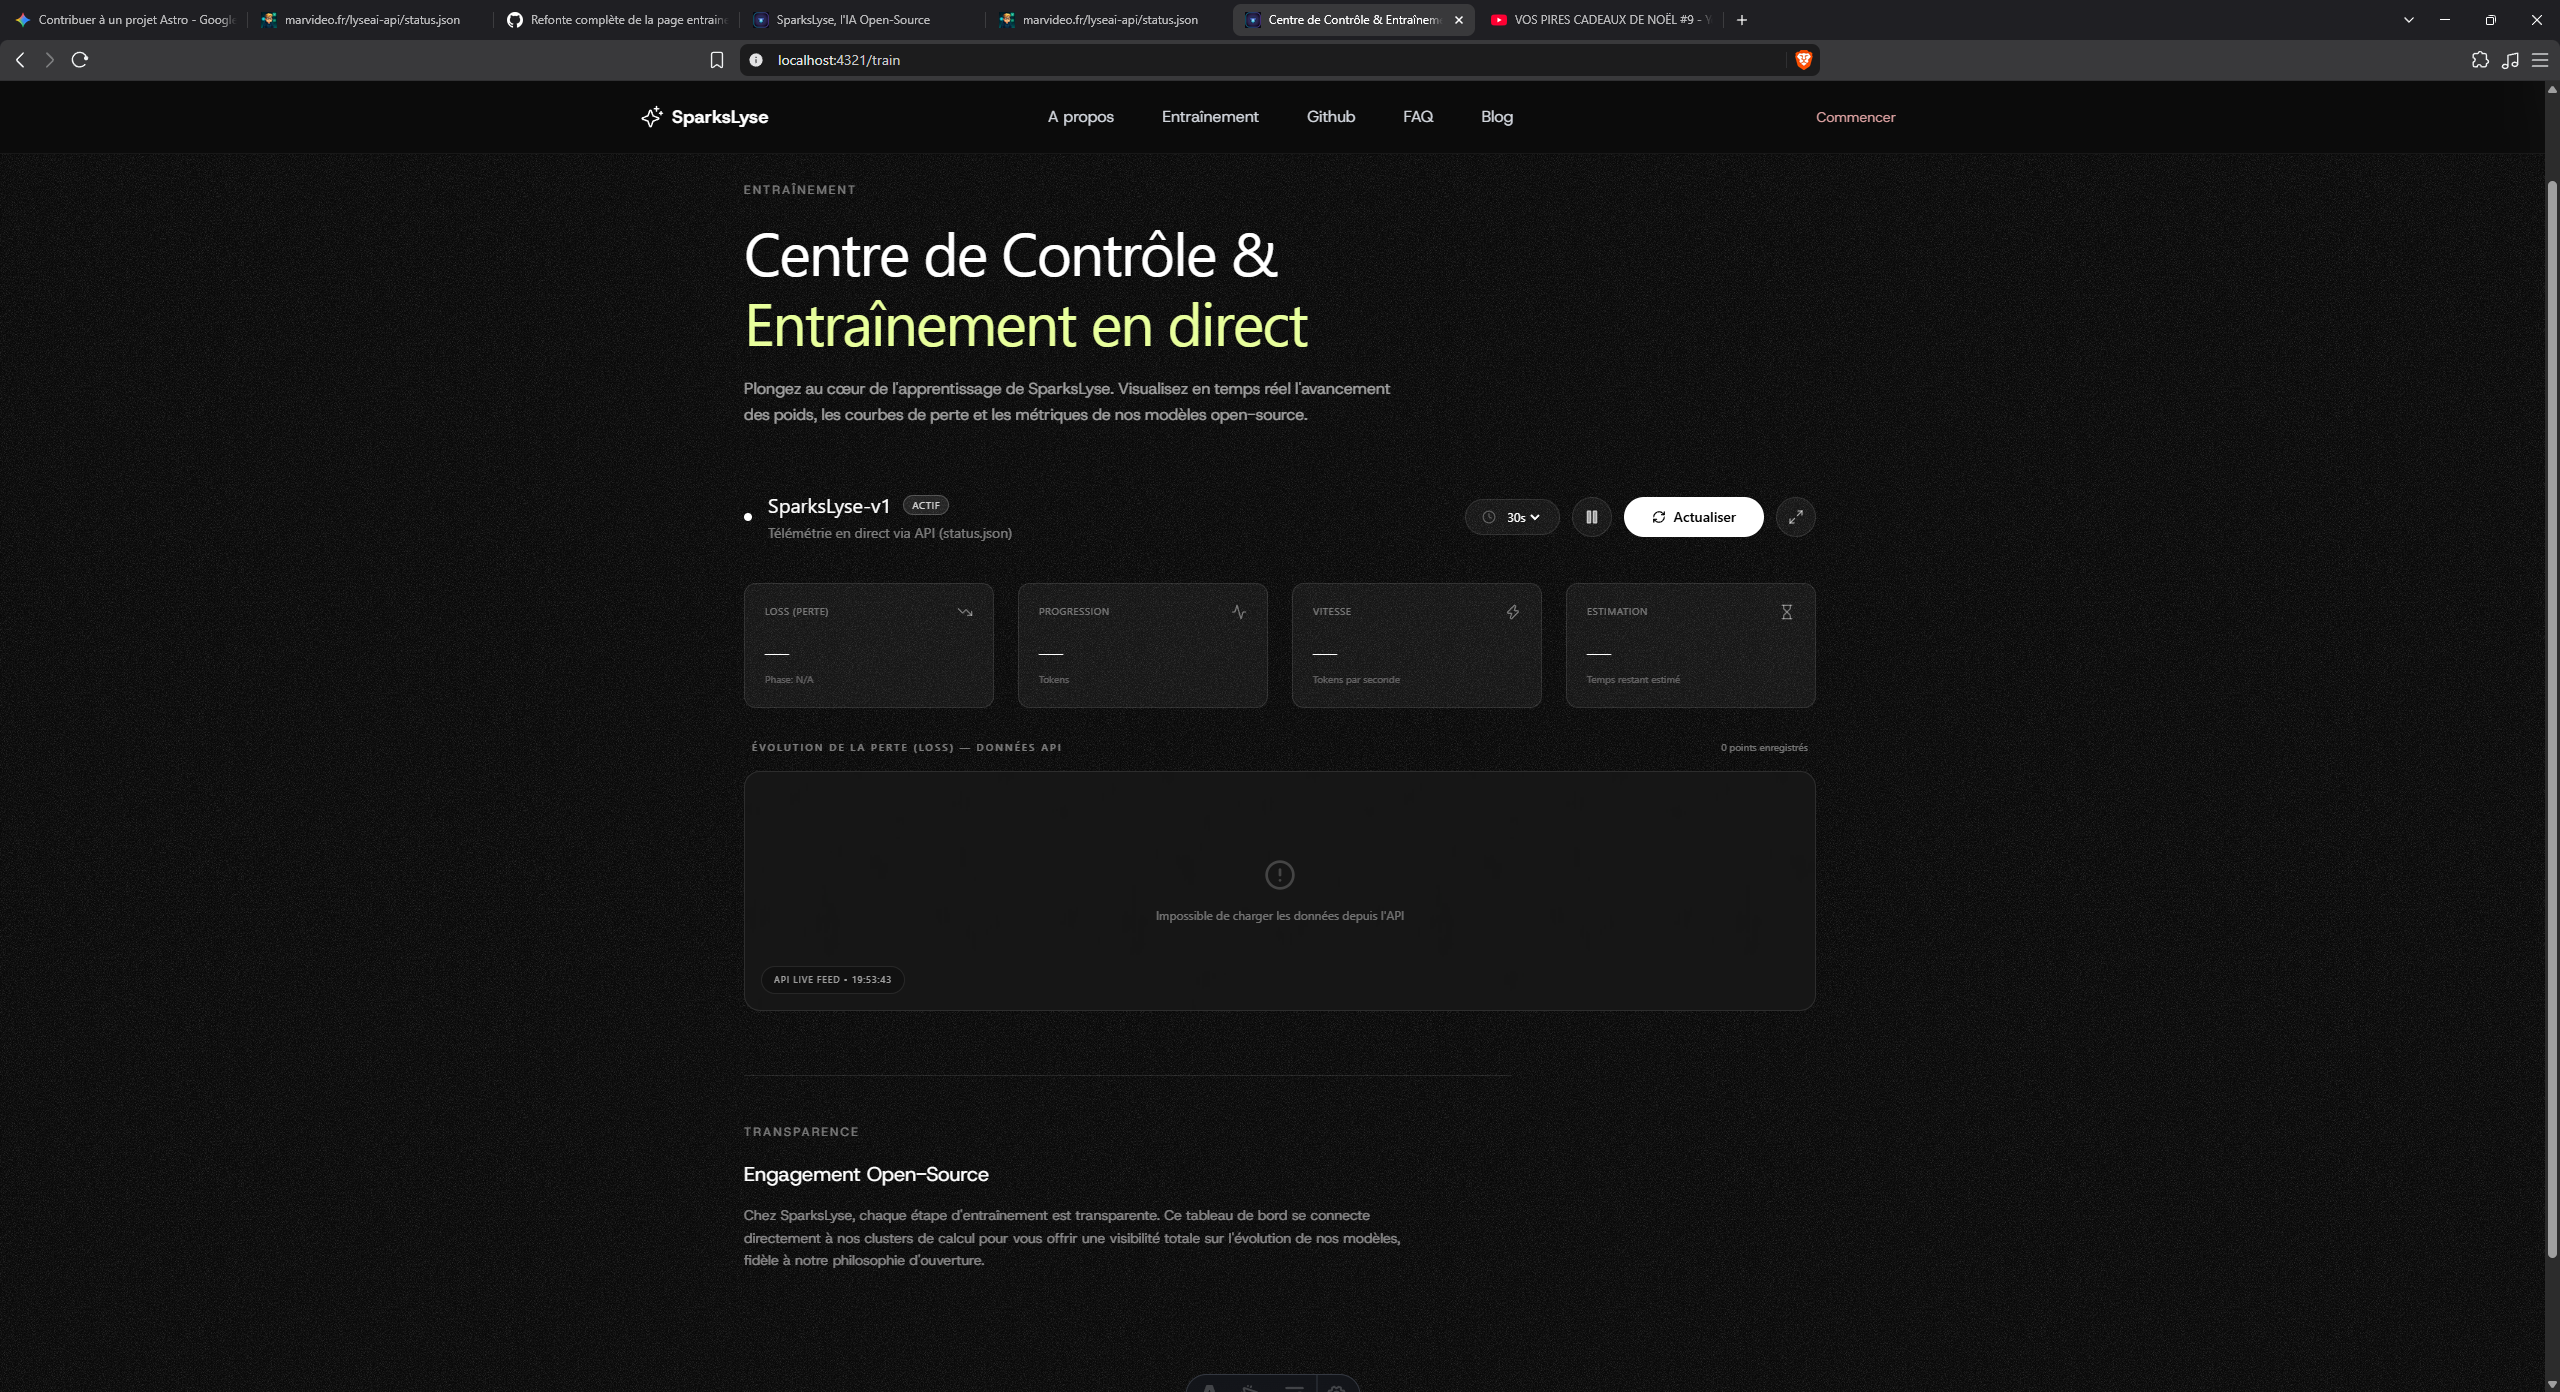
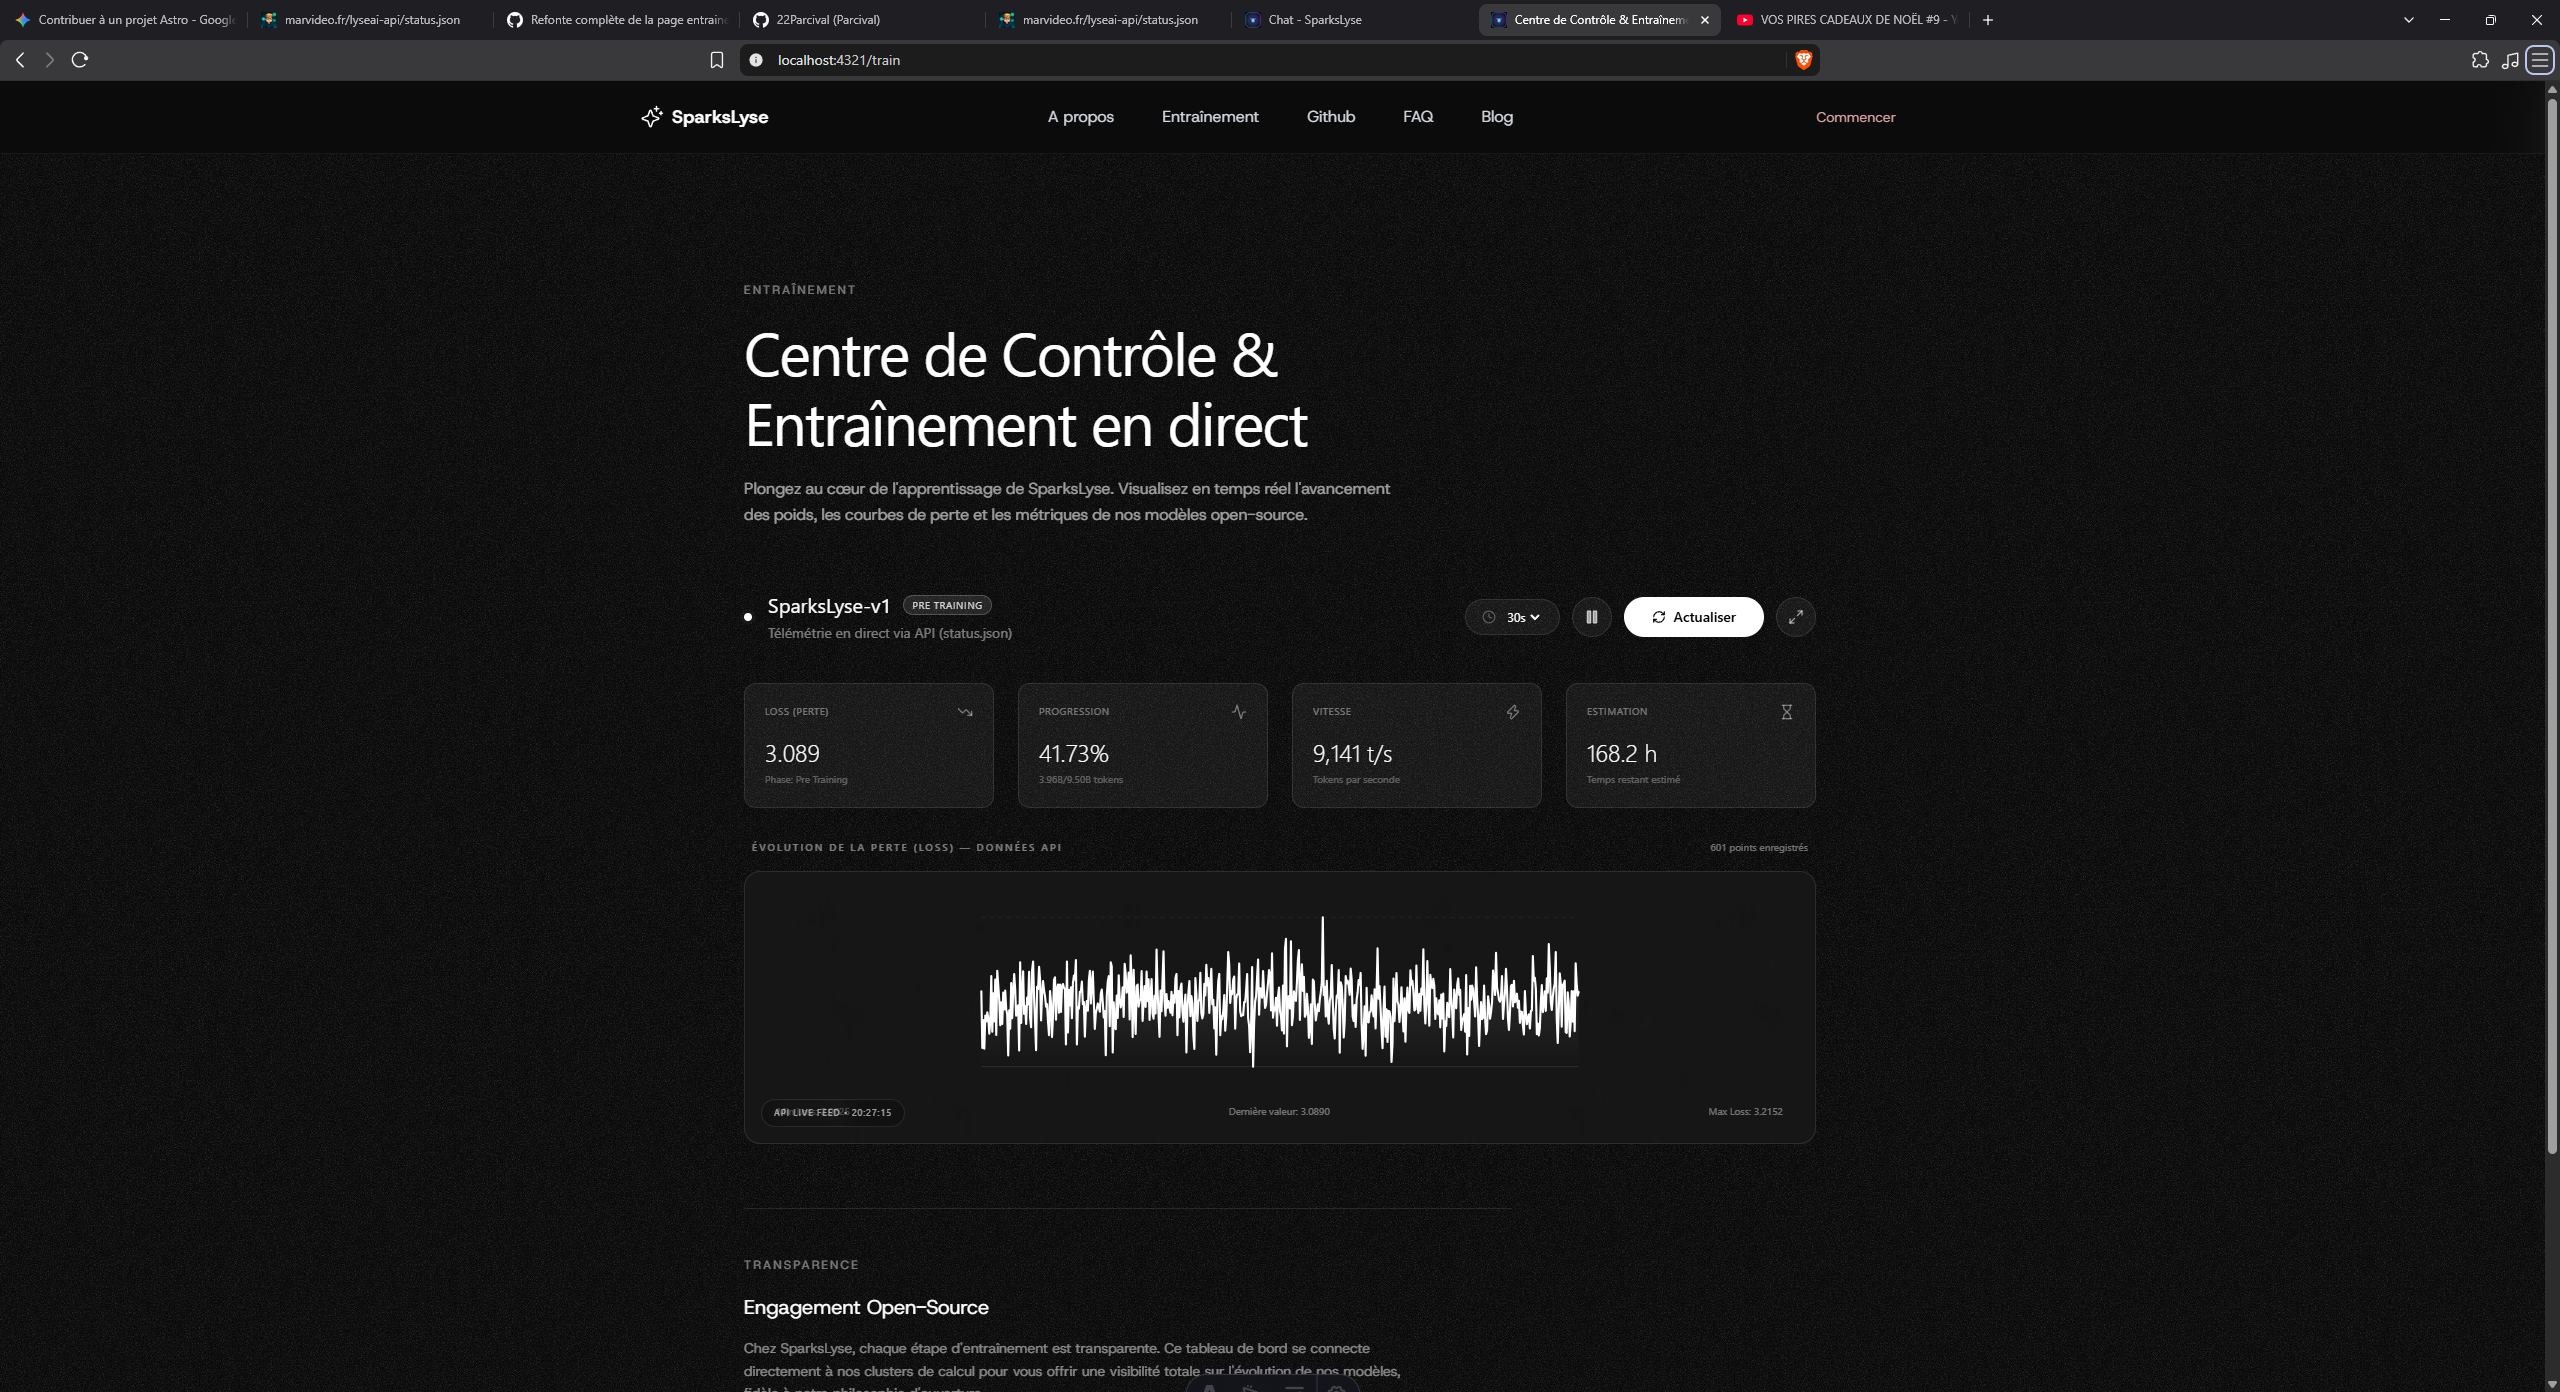
maj taille graph

diff --git a/src/components/TrainingDashboard.tsx b/src/components/TrainingDashboard.tsx
@@ -150,15 +150,15 @@ export default function TrainingDashboard({ alt = "Training Status" }: TrainingD
     triggerRefresh();
   };
 
-  // Compute SVG sparkline points for loss curve
+  // Compute SVG sparkline points for loss curve filling the width/height
   const losses = historyData.map(d => Number(d.loss) || 0);
   const minLoss = losses.length > 0 ? Math.min(...losses) : 0;
   const maxLoss = losses.length > 0 ? Math.max(...losses) : 1;
   const lossRange = maxLoss - minLoss || 1;
 
-  const width = 600;
-  const height = 180;
-  const padding = 20;
+  const width = 1000;
+  const height = 280;
+  const padding = 0;
 
   const points = losses.map((loss, i) => {
     const x = padding + (i / (losses.length > 1 ? losses.length - 1 : 1)) * (width - 2 * padding);
@@ -283,7 +283,7 @@ export default function TrainingDashboard({ alt = "Training Status" }: TrainingD
             <span className="text-[10px] text-white/40">{historyData.length} points enregistrés</span>
           </div>
           
-          <div className="relative w-full overflow-hidden rounded-2xl border border-white/10 bg-white/2.5 backdrop-blur-sm p-6 flex flex-col items-center justify-center min-h-[240px]">
+          <div className="relative w-full overflow-hidden rounded-2xl border border-white/10 bg-white/2.5 backdrop-blur-sm pt-8 pb-4 px-0 flex flex-col items-center justify-center min-h-[280px]">
             {apiLoading && losses.length === 0 ? (
               <div className="flex flex-col items-center text-center gap-4 py-12">
                 <RefreshCw className="w-6 h-6 text-white/40 animate-spin" />
@@ -301,11 +301,11 @@ export default function TrainingDashboard({ alt = "Training Status" }: TrainingD
               </div>
             ) : (
               <div className="w-full flex flex-col items-center">
-                <svg viewBox={`0 0 ${width} ${height}`} className="w-full h-48 overflow-visible">
+                <svg viewBox={`0 0 ${width} ${height}`} preserveAspectRatio="none" className="w-full h-64 overflow-visible">
                   {/* Grid lines */}
-                  <line x1={padding} y1={padding} x2={width - padding} y2={padding} stroke="rgba(255,255,255,0.05)" strokeDasharray="4 4" />
-                  <line x1={padding} y1={height / 2} x2={width - padding} y2={height / 2} stroke="rgba(255,255,255,0.05)" strokeDasharray="4 4" />
-                  <line x1={padding} y1={height - padding} x2={width - padding} y2={height - padding} stroke="rgba(255,255,255,0.1)" />
+                  <line x1={0} y1={0} x2={width} y2={0} stroke="rgba(255,255,255,0.05)" strokeDasharray="4 4" />
+                  <line x1={0} y1={height / 2} x2={width} y2={height / 2} stroke="rgba(255,255,255,0.05)" strokeDasharray="4 4" />
+                  <line x1={0} y1={height} x2={width} y2={height} stroke="rgba(255,255,255,0.1)" />
 
                   {/* Gradient fill under curve */}
                   <defs>
@@ -318,7 +318,7 @@ export default function TrainingDashboard({ alt = "Training Status" }: TrainingD
                   {losses.length > 1 && (
                     <>
                       <polygon 
-                        points={`${padding},${height - padding} ${points} ${width - padding},${height - padding}`} 
+                        points={`0,${height} ${points} ${width},${height}`} 
                         fill="url(#lossGradient)" 
                       />
                       <polyline
@@ -332,7 +332,7 @@ export default function TrainingDashboard({ alt = "Training Status" }: TrainingD
                     </>
                   )}
                 </svg>
-                <div className="w-full flex items-center justify-between text-[10px] text-white/40 mt-4 px-2">
+                <div className="w-full flex items-center justify-between text-[10px] text-white/40 mt-4 px-6">
                   <span>Min Loss: {minLoss.toFixed(4)}</span>
                   <span>Dernière valeur: {losses[losses.length - 1]?.toFixed(4) || "—"}</span>
                   <span>Max Loss: {maxLoss.toFixed(4)}</span>
@@ -341,7 +341,7 @@ export default function TrainingDashboard({ alt = "Training Status" }: TrainingD
             )}
             
             {/* Overlay info */}
-            <div className="absolute bottom-4 left-4 right-4 flex items-center justify-between pointer-events-none">
+            <div className="absolute bottom-4 left-6 right-6 flex items-center justify-between pointer-events-none">
               <div className="px-3 py-1.5 rounded-full bg-black/40 backdrop-blur-md border border-white/10 text-[9px] uppercase tracking-widest text-white/60">
                 API Live Feed • {new Date(timestamp).toLocaleTimeString()}
               </div>
